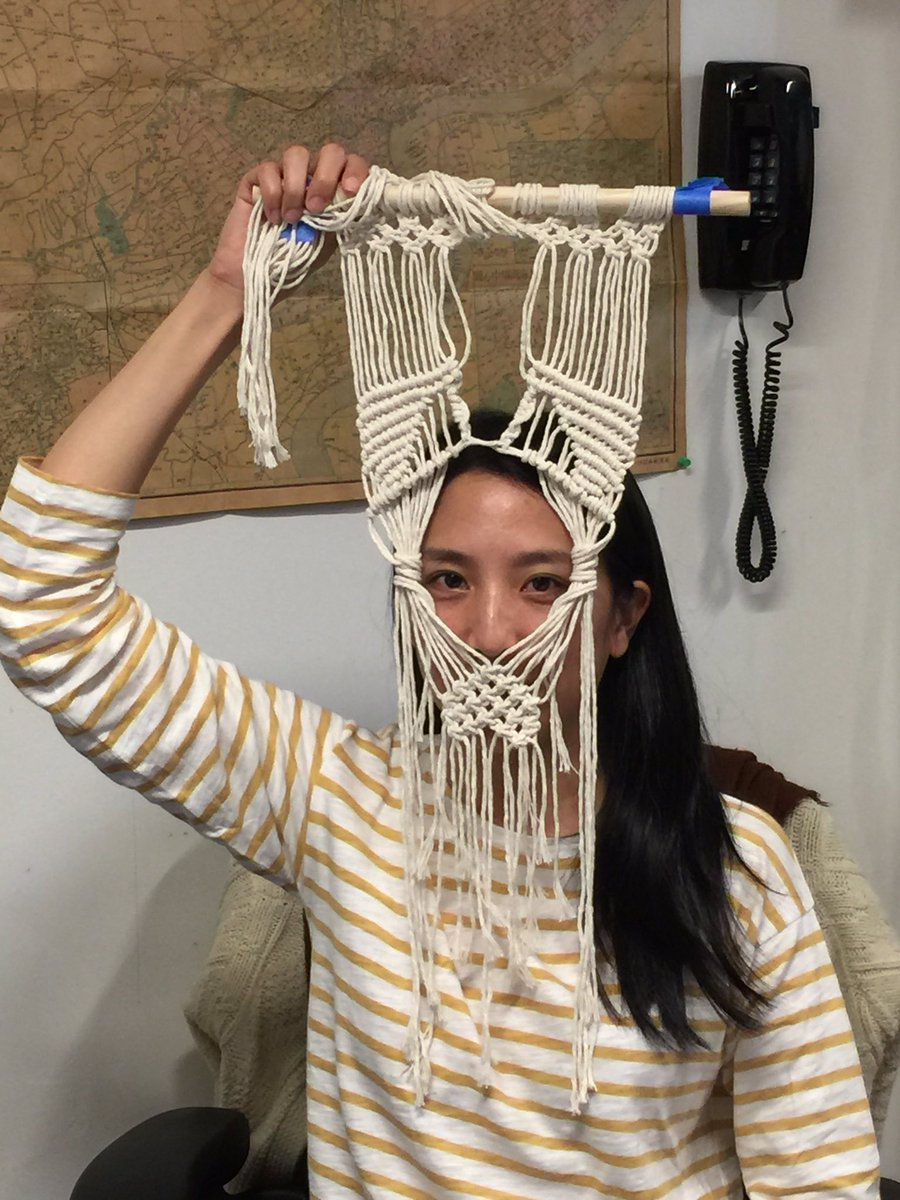
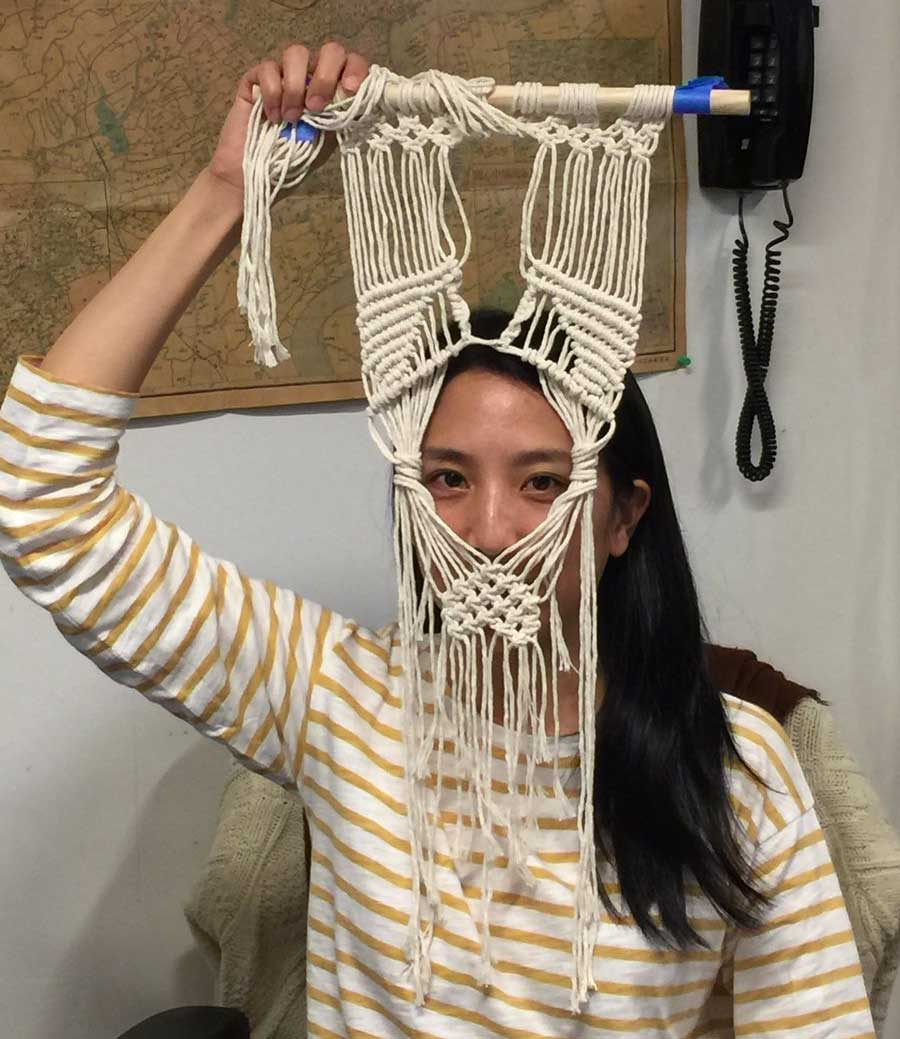
snapchat

diff --git a/index.html b/index.html
@@ -128,6 +128,14 @@
       </div>
 
       <div class="stupid-project">
+        <h2>Artisanal SnapChat Filter</h2>
+        <p>A real-world macrame SnapChat filter. By <a href="http://www.mariafang.com/">Maria Fang</a>.</p>
+        <p class="stupid-pic">
+          <a href="2017/snapchat.jpg"><img src="2017/snapchat.jpg"></a>
+        </p>
+      </div>
+
+      <div class="stupid-project">
         <h2>Magic Nub</h2>
         <p><a href="https://ch1n00.tumblr.com/post/157708690476/magic-nub">Magic Nub</a> is chrome extension that forces you to use a hypersensitive on-screen nub to mouse around, scroll & click. By <a href="http://chino.kim/">Chino Kim</a>.</p>
         <p class="stupid-pic">
